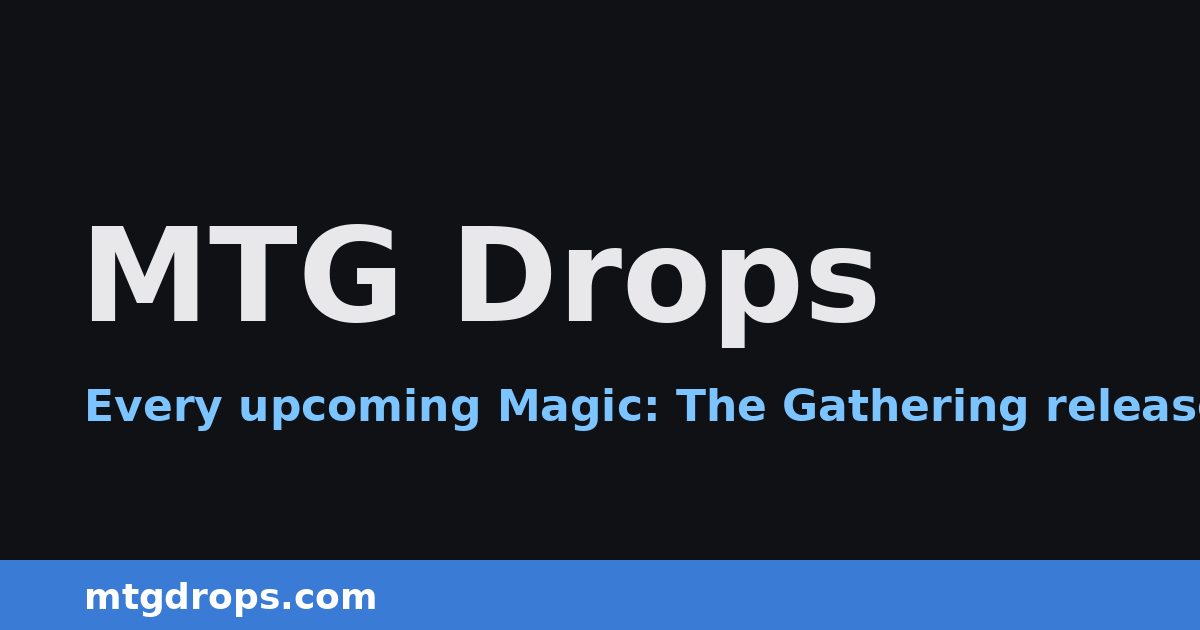
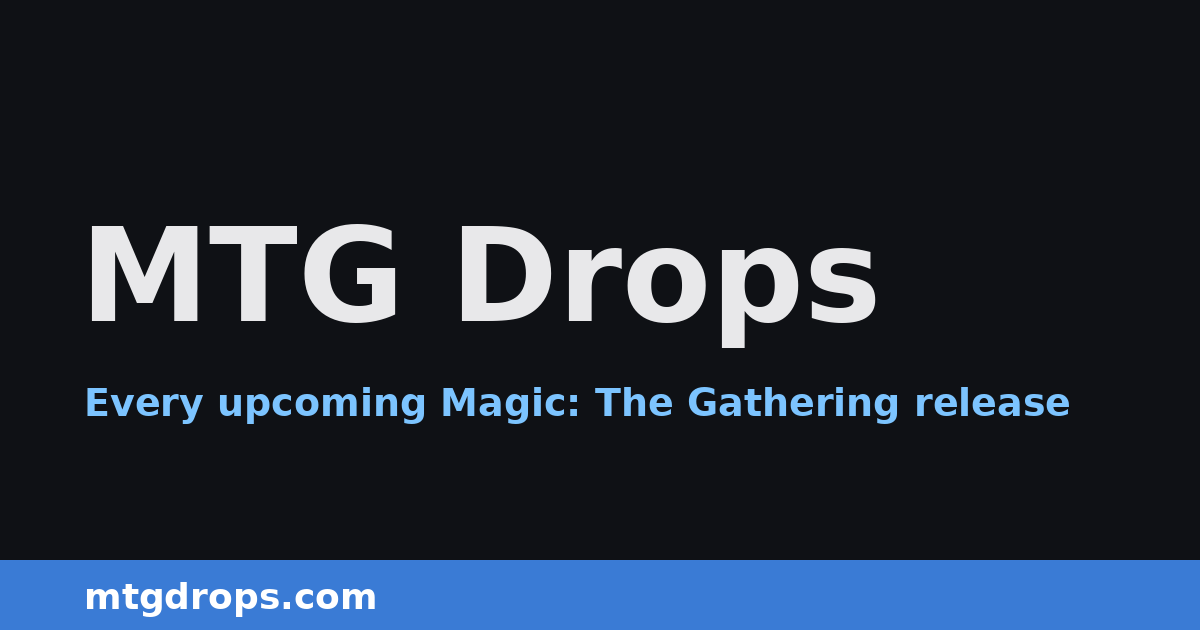
Fit og image subtitle

Changed region(s): [[0.0617, 0.6032, 1.0, 0.6937]]

diff --git a/build.py b/build.py
@@ -73,7 +73,7 @@ if not os.path.exists("static/og.png"):
     im = Image.new("RGB", (1200, 630), (15, 17, 21)); dr = ImageDraw.Draw(im)
     dr.rectangle([0, 560, 1200, 630], fill=(58, 123, 213))
     dr.text((80, 200), "MTG Drops", font=font(130), fill=(232, 232, 234))
-    dr.text((84, 380), "Every upcoming Magic: The Gathering release", font=font(44), fill=(124, 196, 255))
+    dr.text((84, 380), "Every upcoming Magic: The Gathering release", font=font(38), fill=(124, 196, 255))
     dr.text((84, 575), "mtgdrops.com", font=font(36), fill=(255, 255, 255))
     im.save("static/og.png")
 shutil.copy("static/og.png", "dist/og.png")
